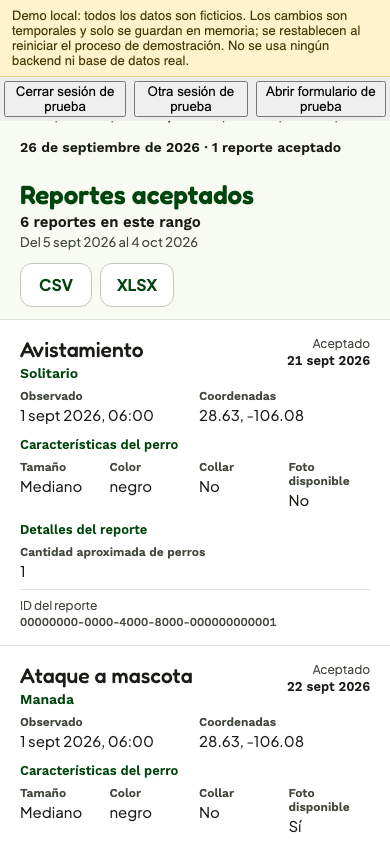
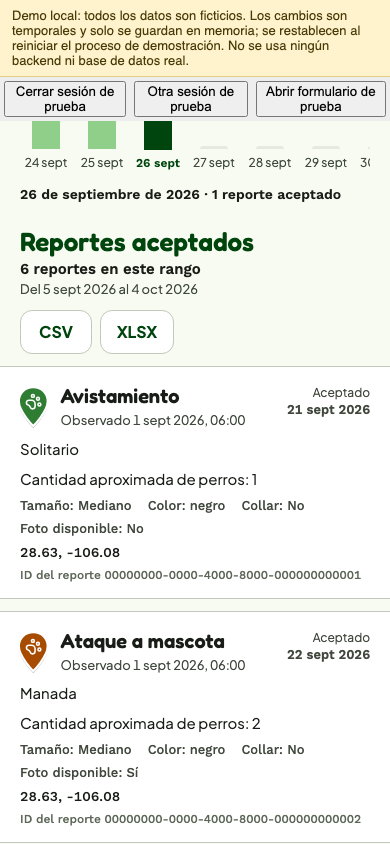
style(design): TD-134 Asociación: tarjetas iguales a las de moderación, con pin de gravedad
Cada reporte es una tira con pin de gravedad, incidente en Fredoka, fecha, líneas con lo que se sabe (lo no indicado se omite), coordenadas tabulares y el ID completo discreto al pie (las pruebas lo usan para cotejar con el CSV). Se quitan las llaves de i18n card.dog y card.details, sin uso. El guion de captura esperaba la paginación de 3.

diff --git a/components/associationReportCard.js b/components/associationReportCard.js
@@ -1,20 +1,15 @@
 /**
  * @module components/associationReportCard
- * Presentational inbox row for one association report, formatted by `presentAssociationReport`: full-width,
- * separated by hairlines (no card box).
+ * Presentational strip for one association report, formatted by `presentAssociationReport`. It mirrors the
+ * moderation queue strip (pin of the report's severity, incident name, date, only the signals that exist,
+ * tabular coordinates, and the full report id, which the CSV export shares) but has no actions: the association only reads accepted data.
  */
 import { useTranslation } from 'react-i18next';
 import { StyleSheet, Text, View } from 'react-native';
+import { PinGlyph } from './ui/index.js';
+import { severityLevel } from '../models/publicMap.js';
 import { presentAssociationReport } from '../presenters/associationDisplay.js';
 import { colors, fontFamily, layout, spacing, type } from '../theme/index.js';
-
-/** Label/value pair with a selectable value. */
-function Info({ label, value, style }) {
-  return <View style={[styles.info, style]}>
-    <Text style={styles.infoLabel}>{label}</Text>
-    <Text selectable style={styles.infoValue}>{value}</Text>
-  </View>;
-}
 
 /**
  * @param {object} props
@@ -24,62 +19,60 @@ function Info({ label, value, style }) {
 export default function AssociationReportCard({ report }) {
   const { t, i18n } = useTranslation();
   const display = presentAssociationReport(report, t, i18n.language);
+  const unknown = t('associationDashboard.card.unknown');
+  // Only the signals that are known: an unknown value says nothing and repeats on every strip.
+  const signals = [
+    ['size', display.size],
+    ['color', display.color],
+    ['collar', display.collar],
+    ['photo', display.photo],
+  ].filter(([, value]) => value !== unknown);
 
-  return <View testID="association-report-card" style={styles.row}>
-    <View style={styles.header}>
-      <View style={styles.heading}>
-        <Text style={styles.incident}>{display.incident}</Text>
-        <Text style={styles.sighting}>{display.sighting}</Text>
+  return <View testID="association-report-card" style={styles.item}>
+    <View style={styles.body}>
+      <View style={styles.top}>
+        <PinGlyph scale={0.72} color={colors.severity[severityLevel(report.incident_type)]} style={styles.pin} />
+        <View style={styles.titleBlock}>
+          <Text style={styles.incident}>{display.incident}</Text>
+          <Text style={styles.observed}>{t('associationDashboard.card.observed')} {display.occurredAt}</Text>
+        </View>
+        <View style={styles.accepted}>
+          <Text style={styles.acceptedLabel}>{t('associationDashboard.card.accepted')}</Text>
+          <Text style={styles.acceptedDate}>{display.acceptedDate}</Text>
+        </View>
       </View>
-      <View style={styles.accepted}>
-        <Text style={styles.acceptedLabel}>{t('associationDashboard.card.accepted')}</Text>
-        <Text style={styles.acceptedDate}>{display.acceptedDate}</Text>
-      </View>
-    </View>
 
-    <View style={styles.infoRow}>
-      <Info label={t('associationDashboard.card.observed')} value={display.occurredAt} style={styles.half} />
-      <Info label={t('associationDashboard.card.location')} value={`${display.latitude}, ${display.longitude}`} style={styles.half} />
-    </View>
+      <Text style={styles.sighting}>{display.sighting}</Text>
+      {display.details.map(({ key, label, value }) => <Text selectable key={key} style={styles.detail}>{label}: {value}</Text>)}
 
-    <Text style={styles.sectionTitle}>{t('associationDashboard.card.dog')}</Text>
-    <View style={styles.infoRow}>
-      <Info label={t('associationDashboard.card.size')} value={display.size} style={styles.quarter} />
-      <Info label={t('associationDashboard.card.color')} value={display.color} style={styles.quarter} />
-      <Info label={t('associationDashboard.card.collar')} value={display.collar} style={styles.quarter} />
-      <Info label={t('associationDashboard.card.photo')} value={display.photo} style={styles.quarter} />
-    </View>
+      {signals.length ? <View style={styles.meta}>
+        {signals.map(([key, value]) => <Text key={key} style={styles.metaText}>{t(`associationDashboard.card.${key}`)}: {value}</Text>)}
+      </View> : null}
 
-    {display.details.length ? <View style={styles.details}>
-      <Text style={styles.sectionTitle}>{t('associationDashboard.card.details')}</Text>
-      {display.details.map(({ key, label, value }) => <Info key={key} label={label} value={value} />)}
-    </View> : null}
+      <Text selectable accessible accessibilityLabel={`${t('associationDashboard.card.location')}: ${display.latitude}, ${display.longitude}`} style={styles.coordinates}>
+        {display.latitude}, {display.longitude}
+      </Text>
 
-    <View style={styles.footer}>
-      <Text style={styles.idLabel}>{t('associationDashboard.card.reportId')}</Text>
-      <Text selectable style={styles.id}>{display.id}</Text>
+      <Text selectable style={styles.id}>{t('associationDashboard.card.reportId')} {display.id}</Text>
     </View>
   </View>;
 }
 
 const styles = StyleSheet.create({
-  row: { backgroundColor: colors.surface, borderTopWidth: 1, borderTopColor: colors.border, paddingHorizontal: layout.margin, paddingVertical: spacing.lg, gap: spacing.sm },
-  header: { flexDirection: 'row', justifyContent: 'space-between', alignItems: 'flex-start', gap: spacing.md },
-  heading: { flex: 1, minWidth: 0, gap: 2 },
-  incident: { fontFamily: fontFamily.displayMedium, fontSize: 21, lineHeight: 27, color: colors.ink },
-  sighting: { fontFamily: fontFamily.label, fontSize: 14, color: colors.primary },
-  accepted: { alignItems: 'flex-end', gap: 2 },
+  item: { backgroundColor: colors.surface, borderTopWidth: 1, borderBottomWidth: 1, borderColor: colors.outlineSoft, marginBottom: spacing.md },
+  body: { paddingHorizontal: layout.margin, paddingVertical: spacing.lg, gap: spacing.sm },
+  top: { flexDirection: 'row', alignItems: 'flex-start', gap: spacing.md },
+  pin: { marginTop: 2, marginLeft: -4, marginRight: -2 },
+  titleBlock: { flex: 1, minWidth: 0, gap: 2 },
+  incident: { fontFamily: fontFamily.display, fontSize: 20, lineHeight: 26, color: colors.ink },
+  observed: { ...type.caption, color: colors.inkMuted, fontVariant: ['tabular-nums'] },
+  accepted: { alignItems: 'flex-end', gap: 2, marginTop: 2 },
   acceptedLabel: { fontFamily: fontFamily.regular, fontSize: 12, color: colors.inkMuted },
-  acceptedDate: { fontFamily: fontFamily.label, fontVariant: ['tabular-nums'], fontSize: 13, color: colors.ink },
-  infoRow: { flexDirection: 'row', flexWrap: 'wrap', gap: spacing.md, columnGap: spacing.sm },
-  half: { flexBasis: '45%', flexGrow: 1 },
-  quarter: { flexBasis: '21%', flexGrow: 1 },
-  info: { minWidth: 0, gap: 1 },
-  infoLabel: { fontFamily: fontFamily.label, fontSize: 12, color: colors.inkMuted },
-  infoValue: { ...type.body, fontSize: 15, lineHeight: 21, color: colors.ink },
-  sectionTitle: { fontFamily: fontFamily.label, fontSize: 13, color: colors.primary, marginTop: spacing.xs },
-  details: { gap: spacing.sm },
-  footer: { borderTopWidth: 1, borderTopColor: colors.border, paddingTop: spacing.sm, gap: 2 },
-  idLabel: { fontFamily: fontFamily.regular, fontSize: 12, color: colors.inkMuted },
-  id: { fontFamily: fontFamily.labelMedium, fontVariant: ['tabular-nums'], fontSize: 12, color: colors.inkMuted },
+  acceptedDate: { fontFamily: fontFamily.label, fontVariant: ['tabular-nums'], fontSize: 13, color: colors.inkMuted },
+  sighting: { ...type.body, fontSize: 15, lineHeight: 22, color: colors.ink },
+  detail: { ...type.body, fontSize: 15, lineHeight: 22, color: colors.ink },
+  meta: { flexDirection: 'row', flexWrap: 'wrap', alignItems: 'center', gap: spacing.sm, columnGap: spacing.lg },
+  metaText: { fontFamily: fontFamily.labelMedium, fontSize: 13, color: colors.inkMuted },
+  id: { fontFamily: fontFamily.labelMedium, fontVariant: ['tabular-nums'], fontSize: 12, color: colors.inkSubtle },
+  coordinates: { fontFamily: fontFamily.labelMedium, fontVariant: ['tabular-nums'], fontSize: 14, color: colors.ink },
 });

diff --git a/docs/redesign/capture/after-association-many.spec.js b/docs/redesign/capture/after-association-many.spec.js
@@ -5,7 +5,7 @@ test('many', async ({ page }) => {
   await page.route('**/association/reports?**', (r) => r.fulfill({ json: { data: { items: Array.from({ length: 25 }, (_, i) => row(i + 1)), next_cursor: null } } }));
   await page.goto('/?association');
   await page.waitForTimeout(700);
-  await page.getByText('Página 1 de 3').scrollIntoViewIfNeeded();
+  await page.getByText('Página 1 de 5').scrollIntoViewIfNeeded();
   await page.waitForTimeout(300);
   await page.screenshot({ path: 'docs/redesign/after/web/es_association_pager.png' });
 });
